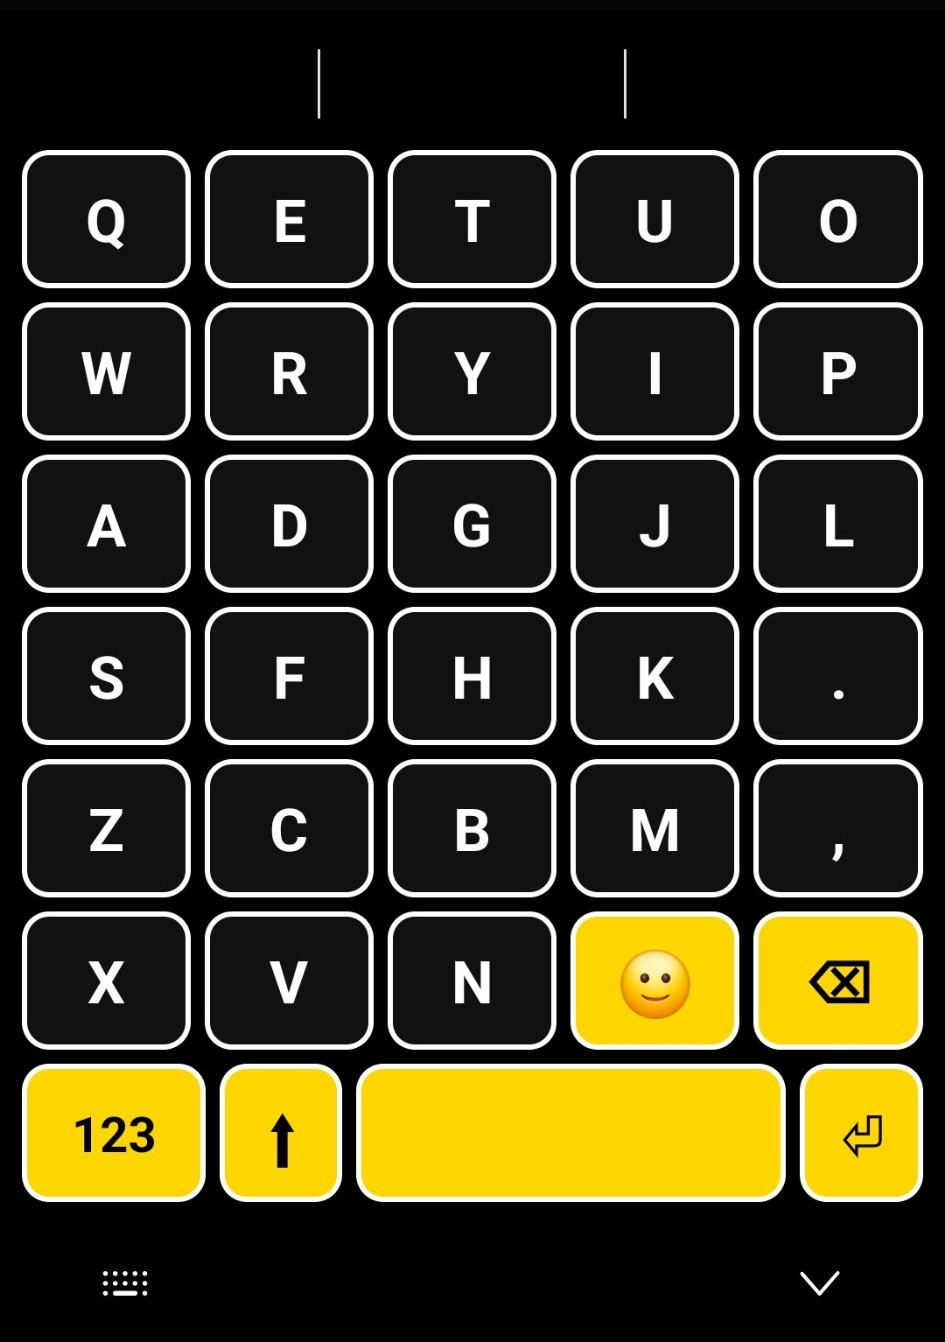
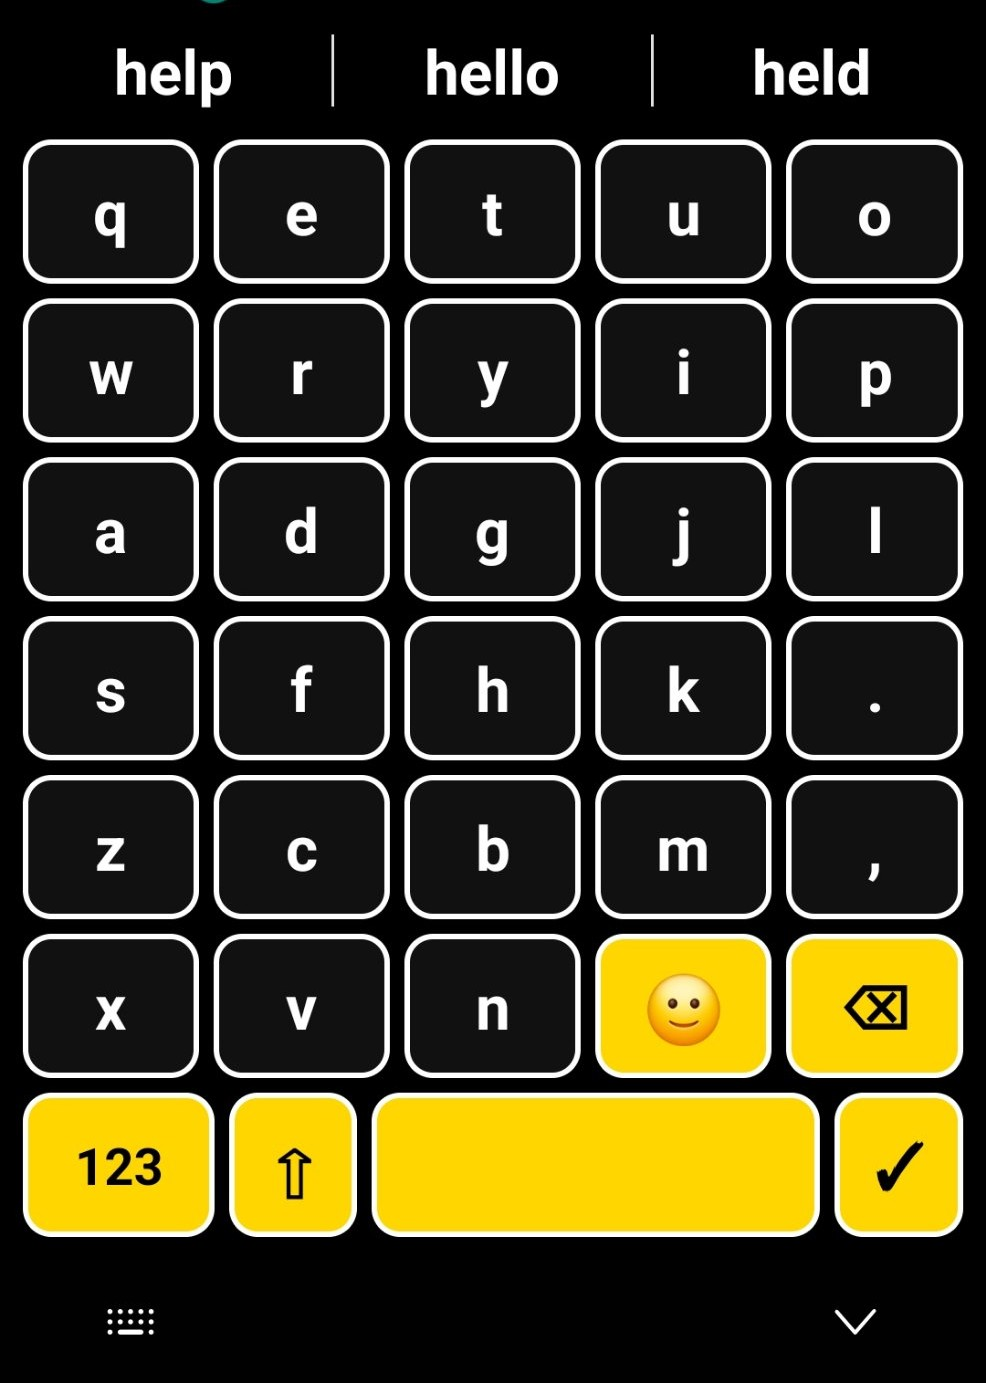
README: full screenshot set from the real phone (v3.8)

diff --git a/README.md b/README.md
@@ -6,9 +6,13 @@ I built SplitKeys for my mother. She is partially blind from cataracts, and ever
 
 ## See it
 
-![SplitKeys keyboard — Dark theme](screenshots/keyboard-dark.jpg)
+<img src="screenshots/keyboard-dark.jpg" width="49%"> <img src="screenshots/keyboard-light.jpg" width="49%">
 
-*The Dark theme: black keys, white letters, yellow action keys. The Light theme is the same layout in white.*
+*Dark theme (left) and Light theme (right) — the only two looks, both high-contrast. Word suggestions ride on top, learned on the device.*
+
+<img src="screenshots/setup.jpg" width="49%"> <img src="screenshots/themes.jpg" width="49%">
+
+*The setup app: numbered steps, giant buttons, and theme cards that show the actual keys instead of describing them.*
 
 ## The good stuff
 
